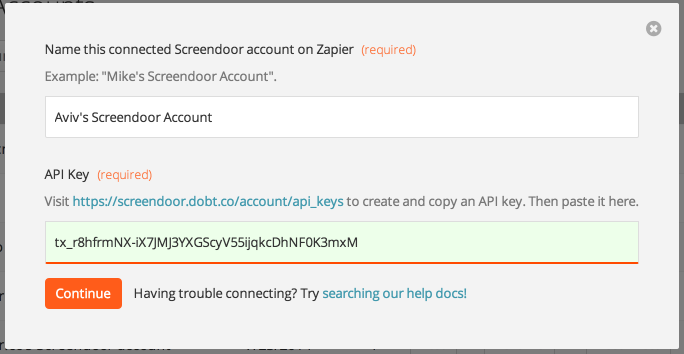
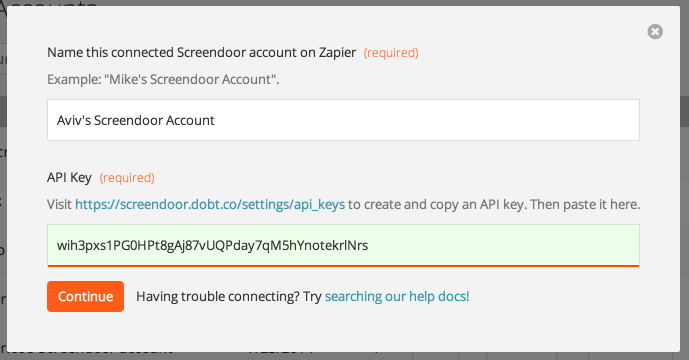
update zapier article

diff --git a/contents/articles/screendoor/integrations/zapier.md b/contents/articles/screendoor/integrations/zapier.md
@@ -1,9 +1,13 @@
 ---
-title: Getting started with Screendoor on Zapier
+title: Zapier
 order: 1
 app_pages:
   - apikeys-index
 ---
+
+Zapier is a service that allows you to define automated integrations between a variety of apps and services. Using Zapier, you can automate your workflow and integrate Screendoor triggers with many of the [apps](https://zapier.com/zapbook/) registered with Zapier.
+
+## Getting started with Screendoor on Zapier
 
 To get Screendoor working with Zapier, the first thing you'll need to do is connect your Screendoor account. Select "Connected Accounts" from the Zapier menu to get started.
 
@@ -15,7 +19,7 @@ Click "Connect new account" and select "Screendoor."
 
 Next, enter a name for your Screendoor account (this is just for your own reference, so call it whatever you want).
 
-To connect your Screendoor account, you'll need to [create an API key from Screendoor](https://screendoor.dobt.co/account/api_keys). Enter an API key name (again, whatever you'd like), and click "Submit" to create your Screendoor API key.
+To connect your Screendoor account, you'll need to [create an API key from Screendoor](https://screendoor.dobt.co/settings/api_keys). Enter "zapier" for the API key name, and click "Submit" to create your Screendoor API key.
 
 ![create api key](../images/screenshot_create_api_key.png)
 
@@ -30,3 +34,11 @@ Paste this API key into Zapier and click "Continue."
 Zapier will test your API key to make sure it's working. If you get an authorization error at this point, make sure you've entered your API key correctly.
 
 That's it! Your Screendoor account is now connected to Zapier, which means you can use Screendoor triggers in your zaps.
+
+---
+
+## Why do I have to enter a project ID when I create a zap?
+
+When creating a zap, you'll have to enter the Screendoor project ID for the project you'd like to integrate with. This is so Zapier knows which Screendoor project to interact with.
+
+![project id](../images/screenshot_zapier_project_id.png)
